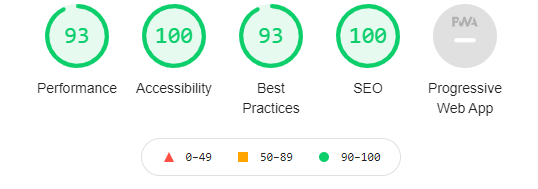
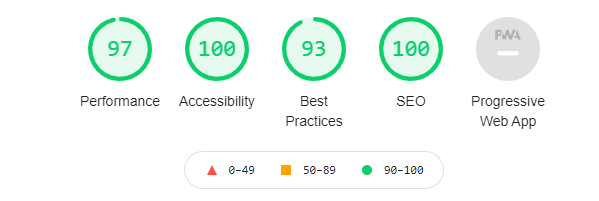
add test entries to README.md

diff --git a/README.md b/README.md
@@ -200,11 +200,16 @@ Desktop Test 2
 
 ![Desktop Test 2](assets/documents/lighthouse-desktop-final.png)
 
-Mobile Test 2
+Mobile Test 3
 
 ![Mobile Test 2](assets/documents/lighthouse-mobile-final.png)
 
-The changes implemented above have helped to increase the performance of mobile considerably.
+The changes implemented above have helped to increase the performance of mobile considerably,
+after a family member noticed text on the home page was not aligning on his device I implemented
+fixes to my media queries and resolved the issue.
+I re-tested on lighthouse and my changes yielded a higher score on performance.
+
+After all of these changes the desktop test stayed the same.
 
 ### Devices
 
